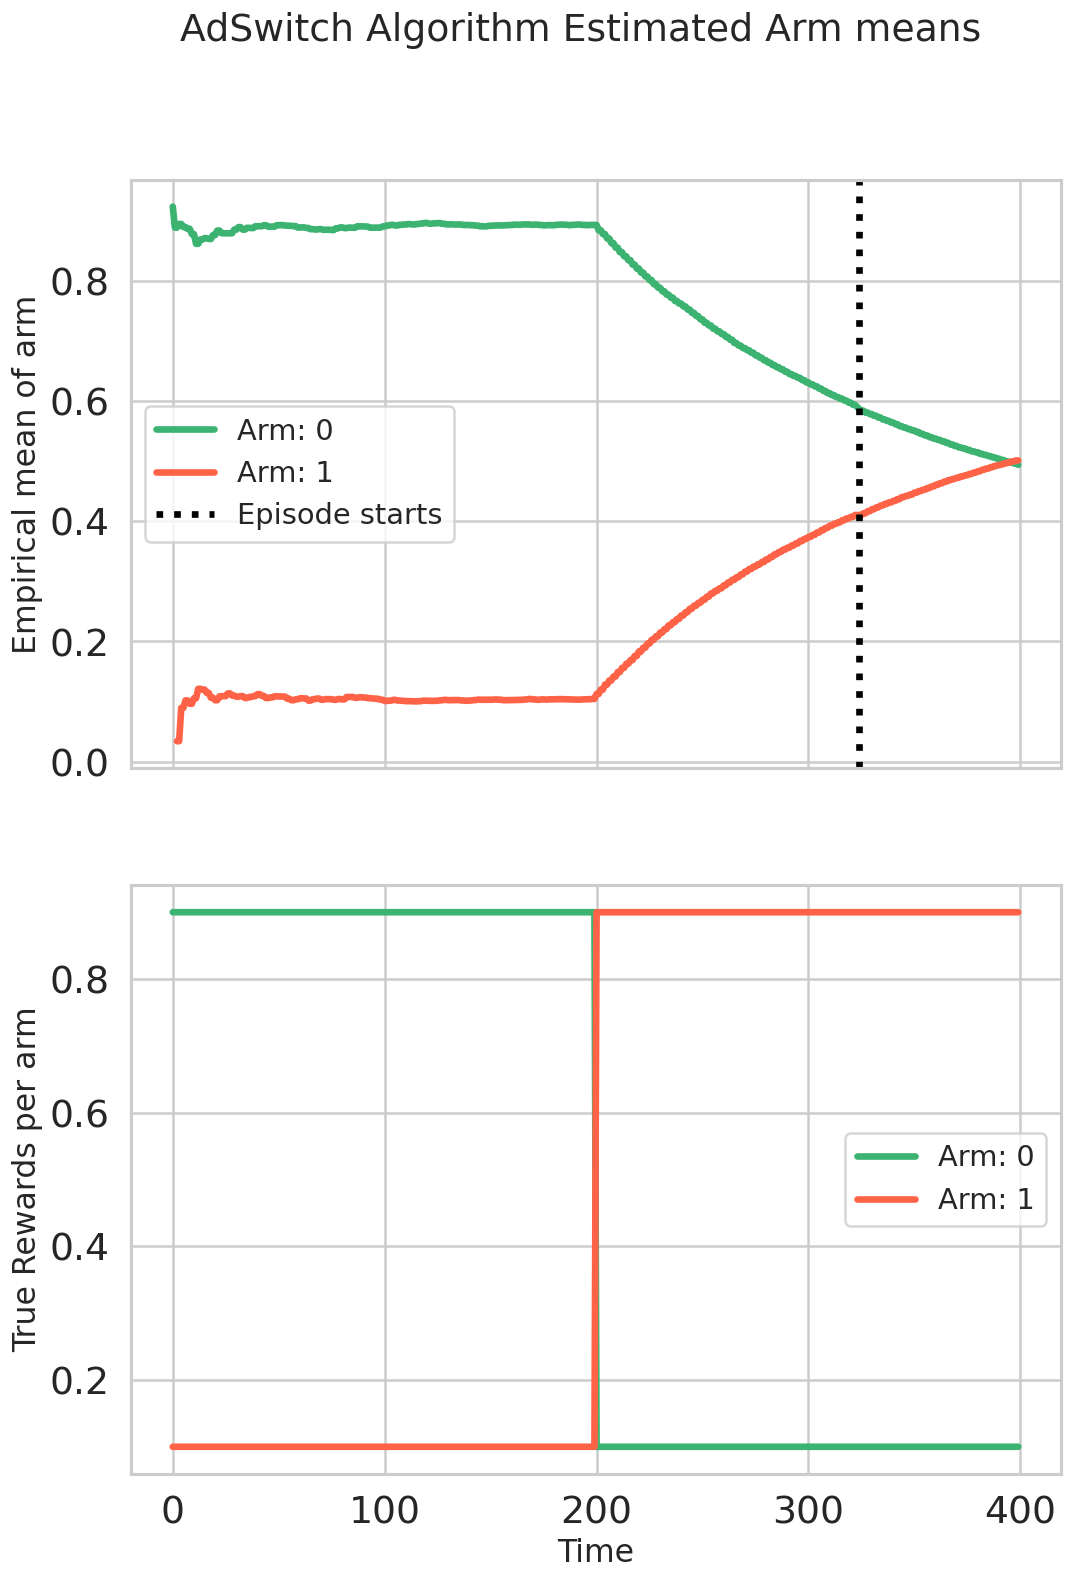
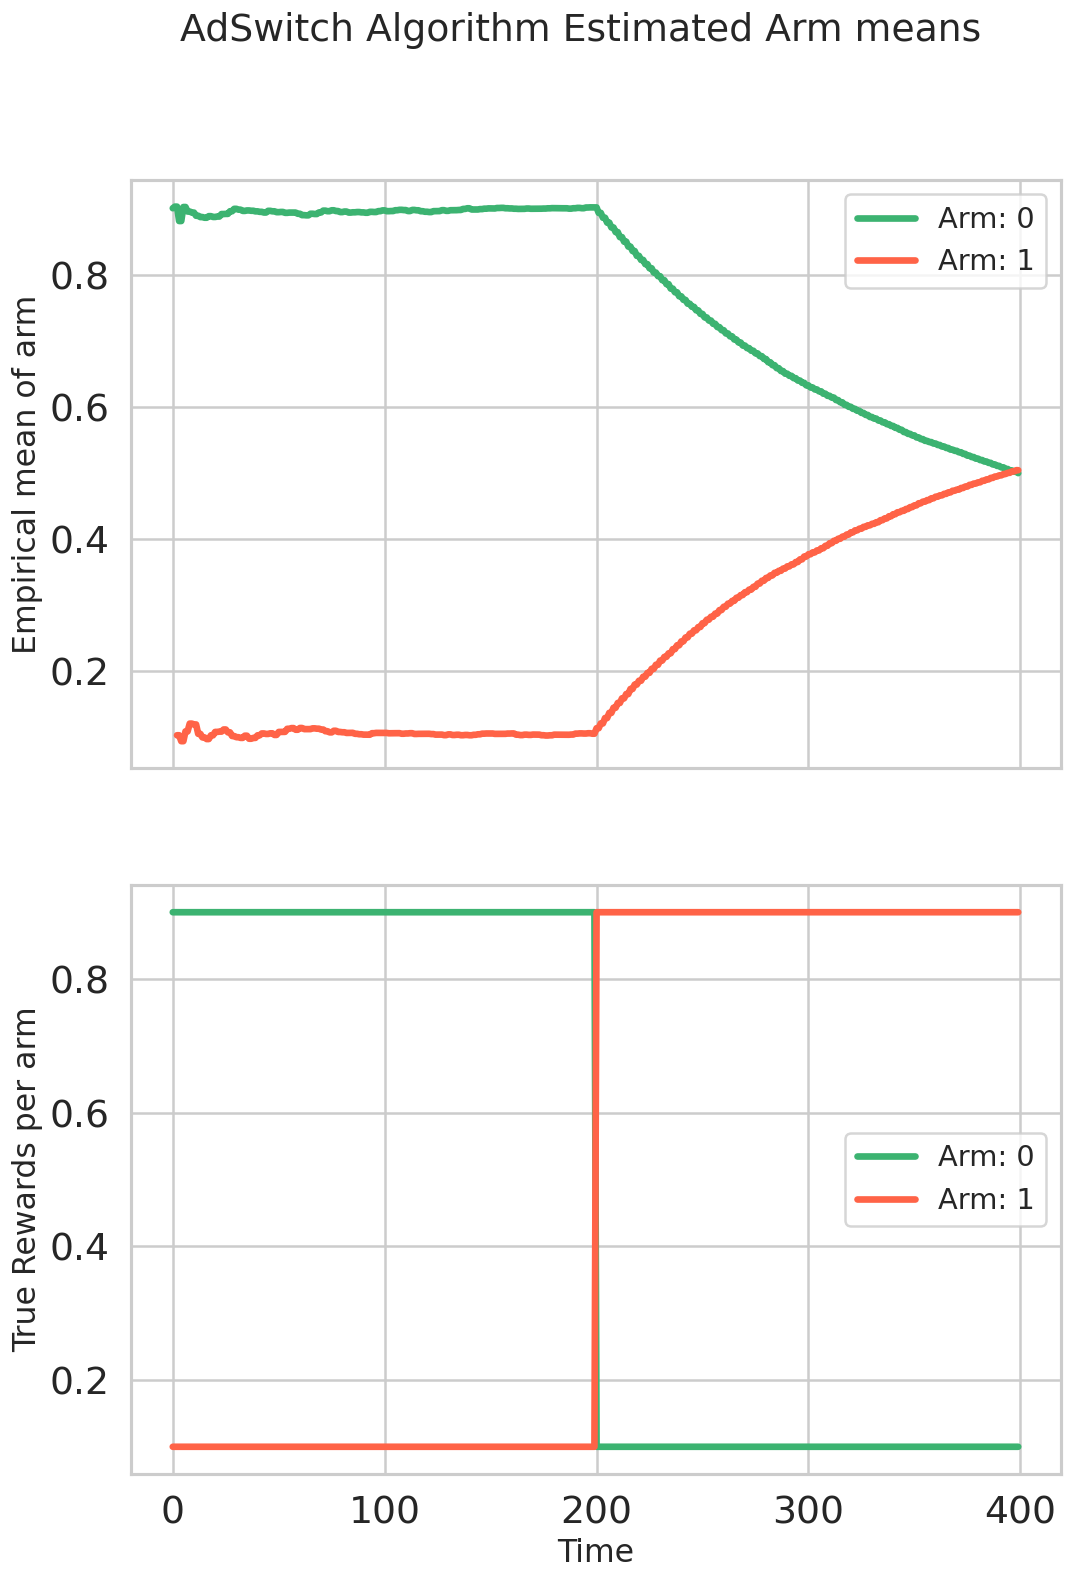
Much faster custom AdSwitch

diff --git a/adswitch_custom.py b/adswitch_custom.py
@@ -1,0 +1,46 @@
+from SMPyBandits.Policies.AdSwitchNew import AdSwitchNew, Constant_C1, DELTA_T, DELTA_S
+import numpy as np
+
+
+class AdSwitchCustom(AdSwitchNew):
+    def __init__(self, nbArms, horizon=None, C1=Constant_C1, delta_s=DELTA_S, delta_t=DELTA_T, *args, **kwargs):
+        super().__init__(nbArms, horizon=horizon, C1=C1, delta_s=delta_s, delta_t=delta_t, *args, **kwargs)
+        self.checked_good_arm_settings = set()
+
+    def check_changes_good_arms(self):
+        """ Check for changes of good arms.
+
+        - I moved this into a function, in order to stop the 4 for loops (``good_arm``, ``s_1``, ``s_2``, ``s``) as soon as a change was detected (early stopping).
+        - TODO this takes a crazy O(K t^3) time, it HAS to be done faster!
+        """
+        for good_arm in self.set_GOOD:
+            for s_1 in range(self.start_of_episode, self.t + 1, self.delta_s):  # WARNING we could speed up this loop with their trick
+                for s_2 in range(s_1, self.t + 1, self.delta_s):  # WARNING we could speed up this loop with their trick
+                    for s in range(self.start_of_episode, self.t + 1, self.delta_s):  # WARNING we could speed up this loop with their trick
+                        setting = (good_arm, s_1, s_2, s)
+                        if setting in self.checked_good_arm_settings:
+                            continue
+                        self.checked_good_arm_settings.add(setting)
+                        # check condition (3)
+                        n_s1_s2_a = self.n_s_t(good_arm, s_1, s_2)  # sub interval [s1, s2] <= [s, t] (s <= s1 <= s2 <= t).
+                        mu_hat_s1_s2_a = self.mu_hat_s_t(good_arm, s_1, s_2)  # sub interval [s1, s2] <= [s, t] (s <= s1 <= s2 <= t).
+                        n_s_t_a = self.n_s_t(good_arm, s, self.t)
+                        mu_hat_s_t_a = self.mu_hat_s_t(good_arm, s, self.t)
+                        abs_difference_in_s1s2_st = abs(mu_hat_s1_s2_a - mu_hat_s_t_a)
+                        confidence_radius_s1s2 = np.sqrt(2 * max(1, np.log(self.horizon)) / max(n_s1_s2_a, 1))
+                        confidence_radius_st = np.sqrt(2 * max(1, np.log(self.horizon)) / max(n_s_t_a, 1))
+                        right_side = confidence_radius_s1s2 + confidence_radius_st
+                        # print("AdSwitchNew: should we start a new episode, by checking condition (3), with arm {}, s1 = {}, s2 = {}, s = {} and t = {}...".format(good_arm, s_1, s_2, s, self.t))  # DEBUG
+                        if abs_difference_in_s1s2_st > right_side:  # check condition 3:
+                            print("\n==> New episode was started, with arm {}, s1 = {}, s2 = {}, s = {} and t = {}, as condition (3) is satisfied!".format(good_arm, s_1, s_2, s, self.t))  # DEBUG
+                            # print("    n_s1_s2_a =", n_s1_s2_a)  # DEBUG
+                            # print("    mu_hat_s1_s2_a =", mu_hat_s1_s2_a)  # DEBUG
+                            # print("    n_s_t_a =", n_s_t_a)  # DEBUG
+                            # print("    mu_hat_s_t_a =", mu_hat_s_t_a)  # DEBUG
+                            # print("    abs_difference_in_s1s2_st =", abs_difference_in_s1s2_st)  # DEBUG
+                            # print("    confidence_radius_s1s2 =", confidence_radius_s1s2)  # DEBUG
+                            # print("    confidence_radius_st =", confidence_radius_st)  # DEBUG
+                            # print("    right_side =", right_side)  # DEBUG
+                            return True
+        # done for checking on good arms
+        return False

diff --git a/adswitch.py b/adswitch.py
@@ -1,4 +1,4 @@
-from SMPyBandits.Policies.AdSwitchNew import AdSwitchNew
+from adswitch_custom import AdSwitchCustom, AdSwitchNew
 import numpy as np
 
 from tqdm import trange
@@ -30,7 +30,8 @@ HORIZON = len(arm_rewards[0])
 N_ARMS = len(arm_rewards)
 
 
-algo = AdSwitchNew(N_ARMS, horizon=HORIZON, delta_t=9)  # , delta_s=4, delta_t=10
+algo = AdSwitchCustom(N_ARMS, horizon=HORIZON, delta_t=9)  # , delta_s=4, delta_t=10
+# algo = AdSwitchNew(N_ARMS, horizon=HORIZON, delta_t=1, delta_s=1)  # , delta_s=4, delta_t=10
 algo.startGame()
 
 starts = set()
